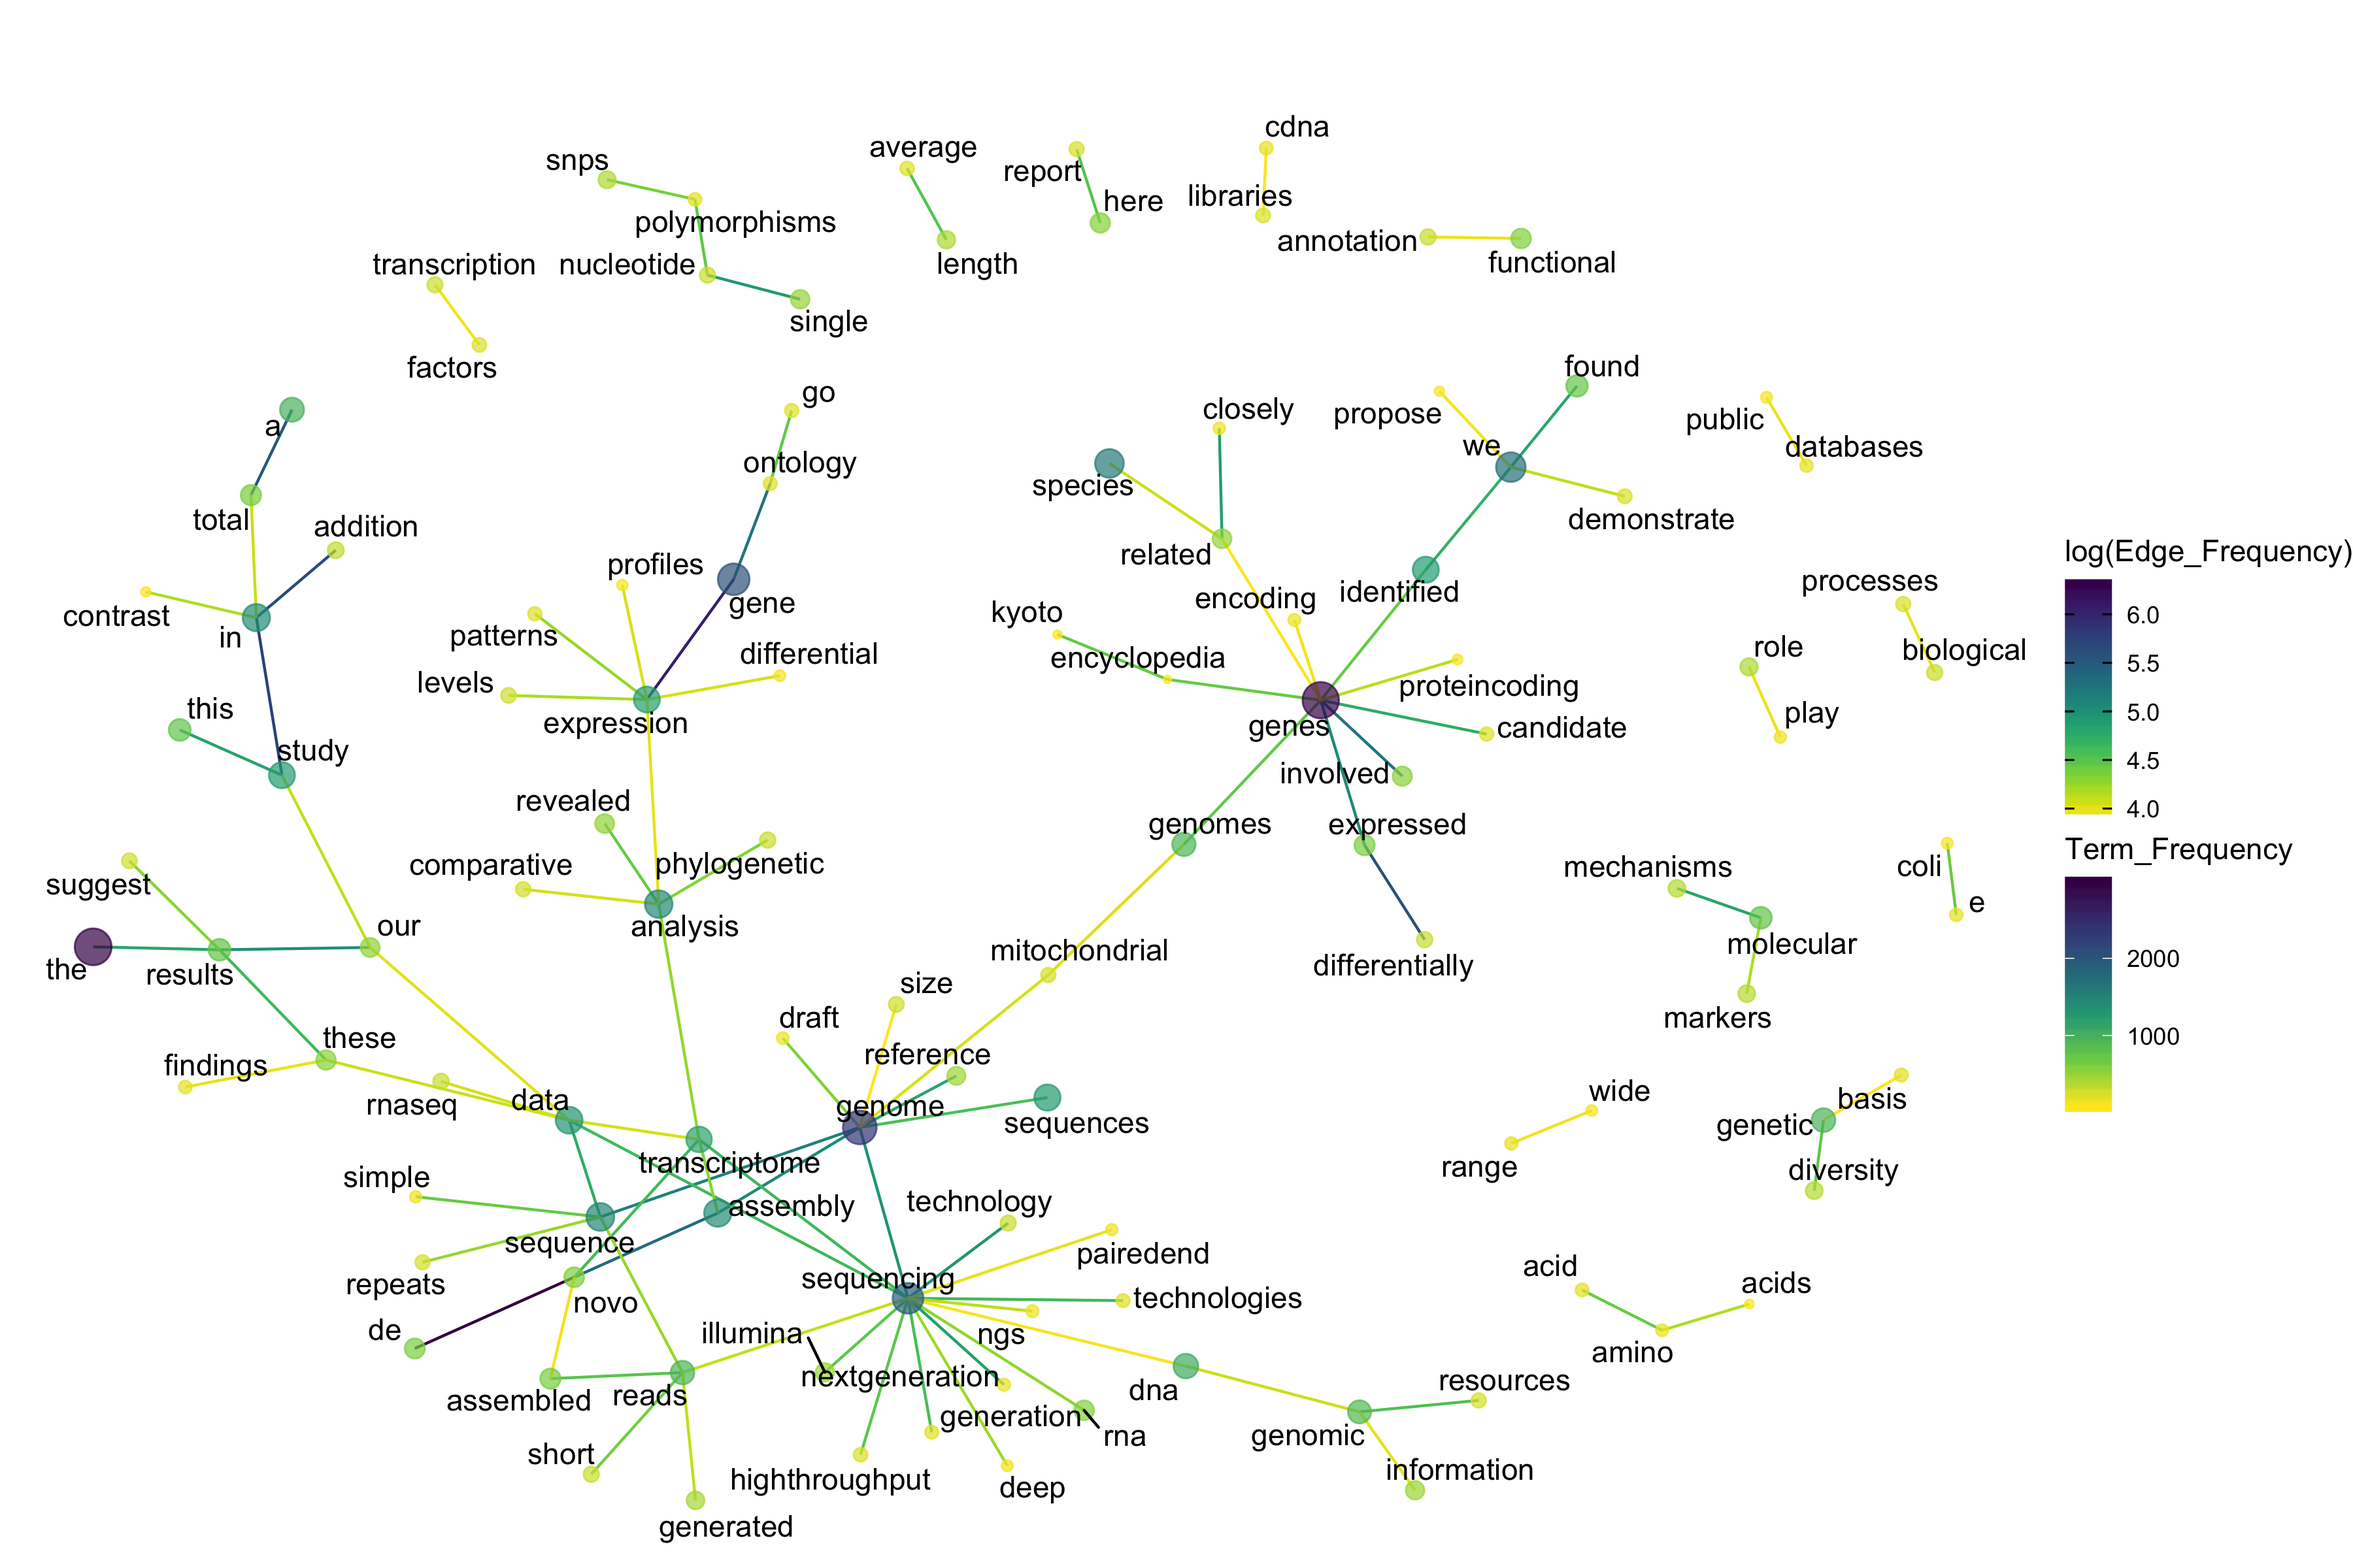
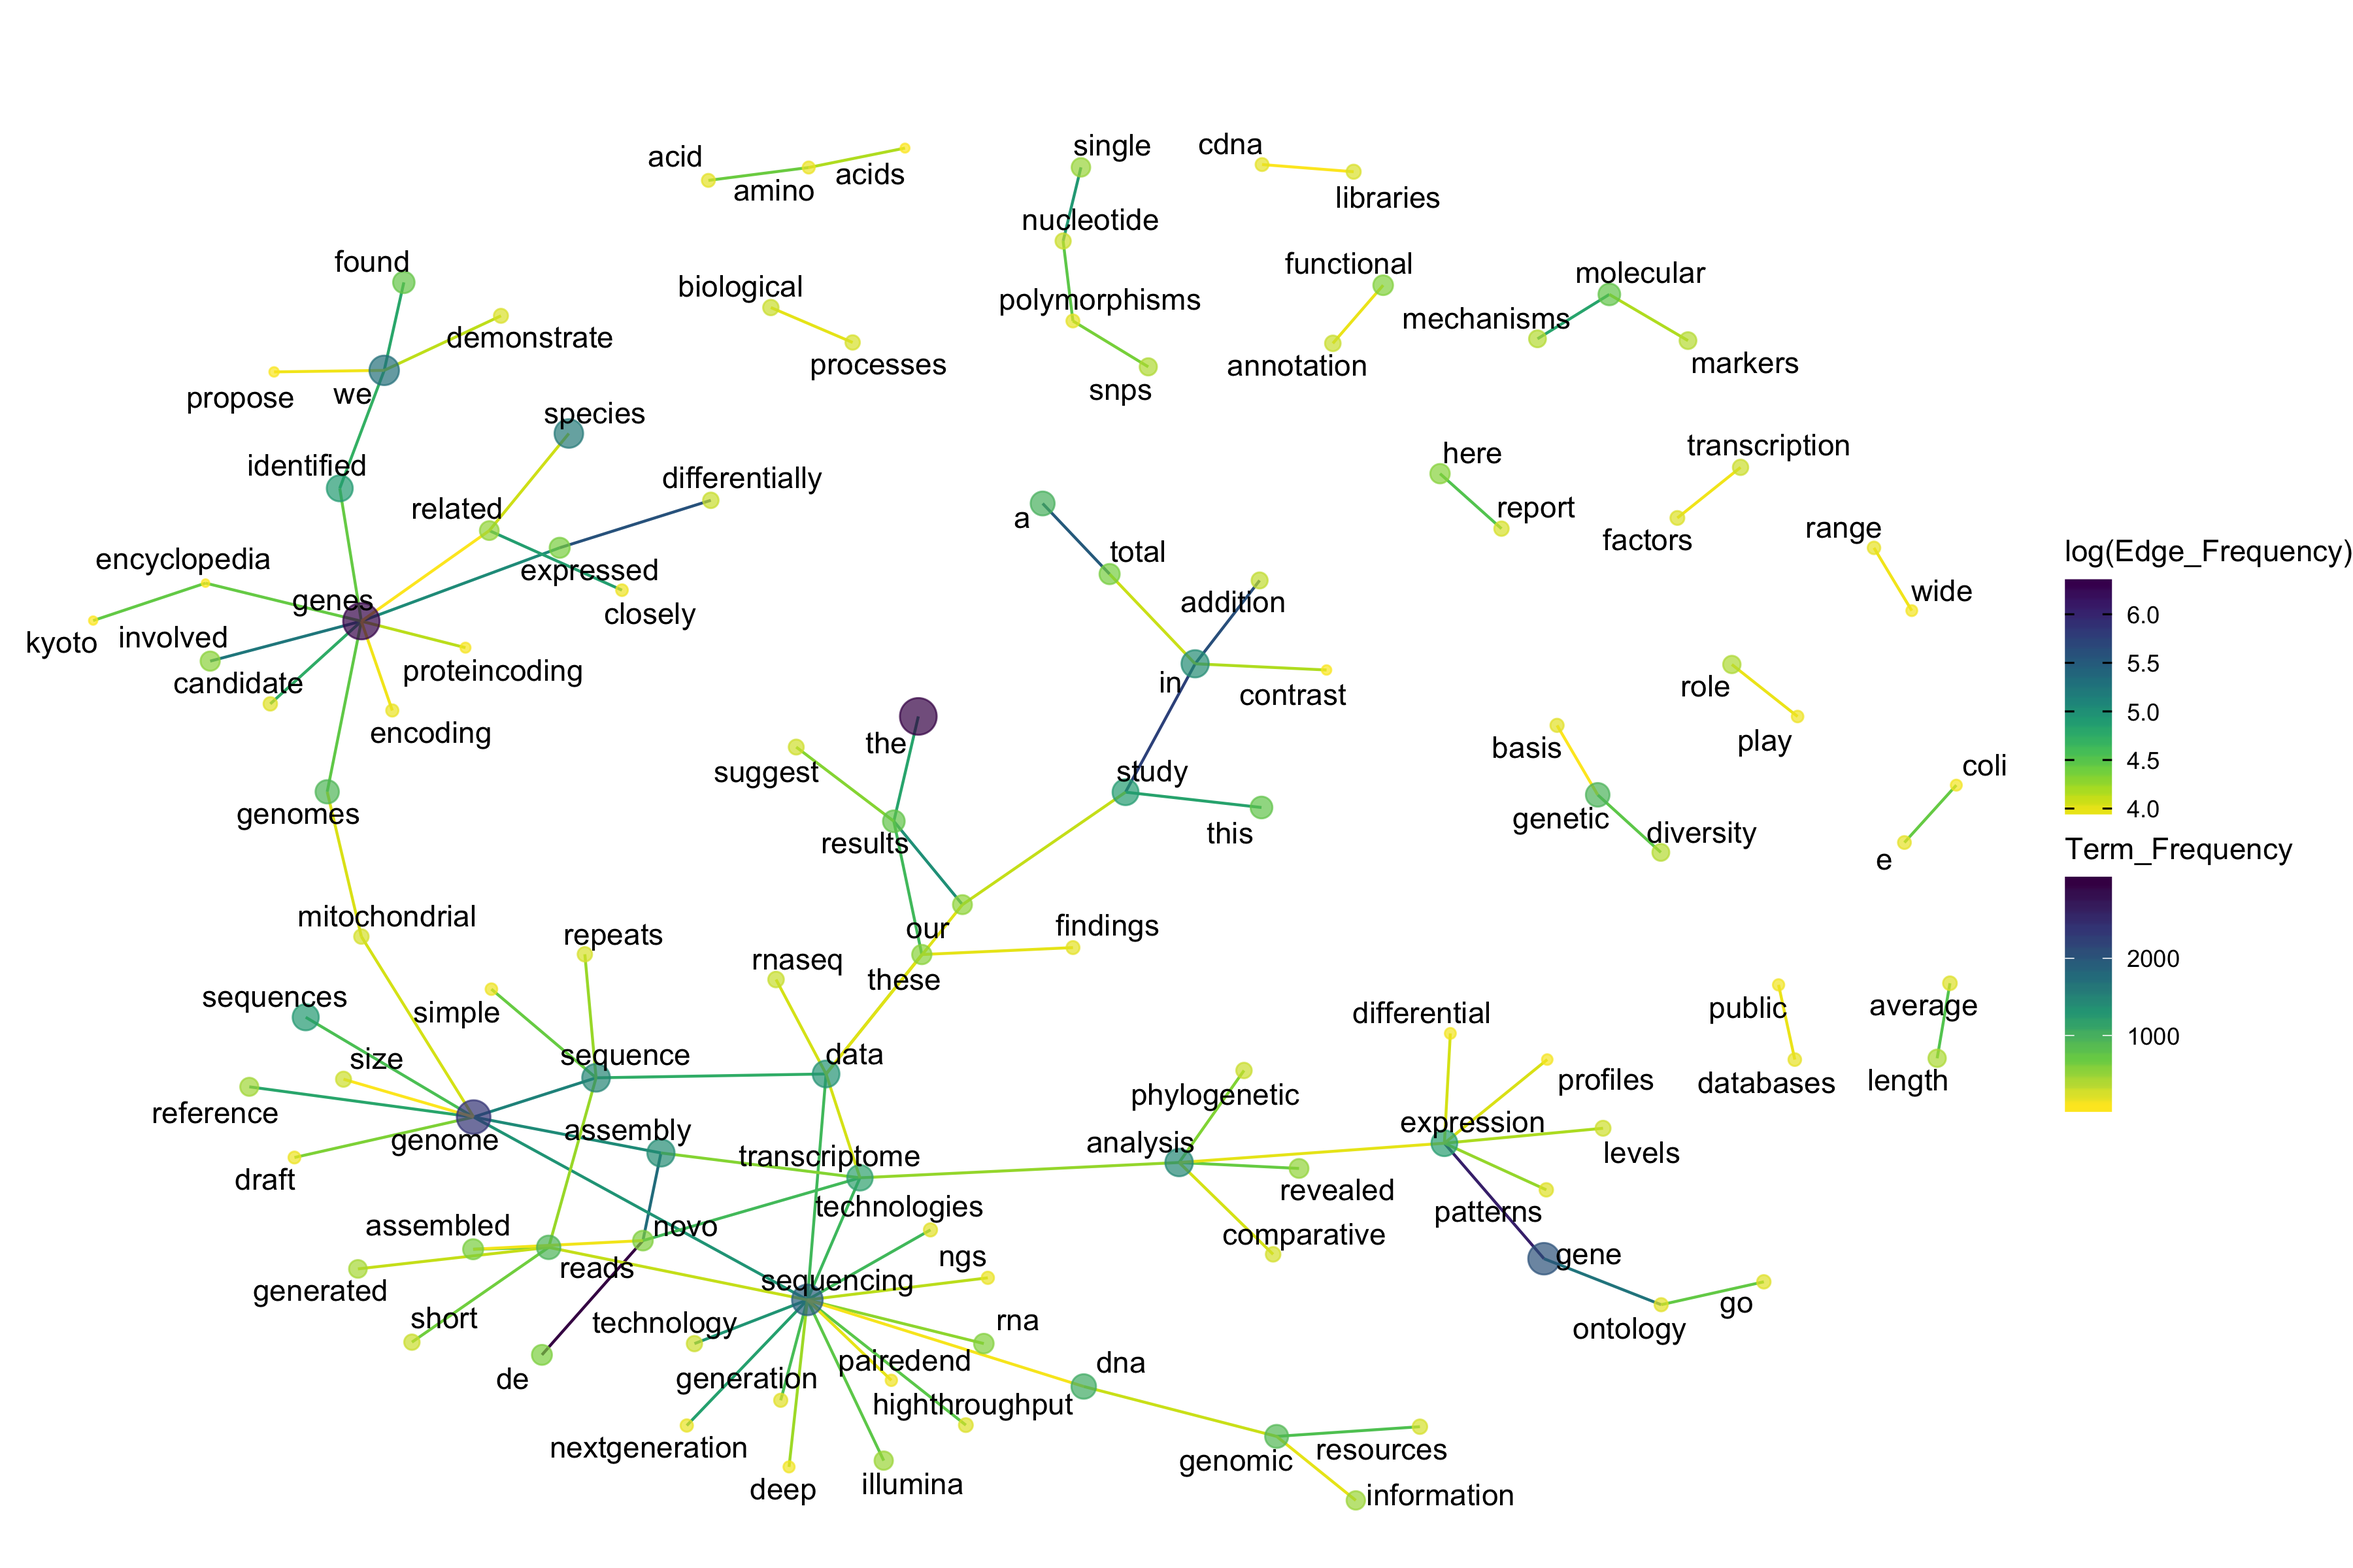
raw URLs

diff --git a/workshop/slides_egarlock.html b/workshop/slides_egarlock.html
@@ -3173,13 +3173,23 @@ library(broom)</pre>
 
 </article></slide><slide class=""><hgroup><h2>Mapping</h2></hgroup><article  id="mapping-4">
 
+<p>Packages needed for plotting</p>
+
+<p><code>ggplot2</code>: package for data visualizations</p>
+
+<p><code>plotly</code>: makes interactive visualizations</p>
+
+<p><code>viridis</code>: good colour palatte for dealing with colourblindness and greyscale issues</p>
+
+</article></slide><slide class=""><hgroup><h2>Mapping</h2></hgroup><article  id="mapping-5">
+
 <p>There is a lot of code in the worksheet that describes how we got the data into the format we needed</p>
 
 <p>-We will do one global plot and one of Europe</p>
 
-</article></slide><slide class=""><hgroup><h2>Mapping</h2></hgroup><article  id="mapping-5">
+</article></slide><slide class=""><hgroup><h2>Mapping</h2></hgroup><article  class="smaller" id="mapping-6">
 
-<p>Here is an example of what the data looks like</p>
+<p>Here is an example of what the data looks like:</p>
 
 <table class = 'rmdtable'>
 <tr class="header">
@@ -3294,7 +3304,7 @@ library(broom)</pre>
 </tr>
 </table>
 
-</article></slide><slide class=""><hgroup><h2>Mapping</h2></hgroup><article  id="mapping-6">
+</article></slide><slide class=""><hgroup><h2>Mapping</h2></hgroup><article  id="mapping-7">
 
 <pre class = 'prettyprint lang-r'>pl &lt;- ggplot() +
 <b>  geom_polygon(data = world_data2, aes(x = long, y = lat,
@@ -3305,7 +3315,7 @@ library(broom)</pre>
 
 world_plotly=ggplotly(pl,tooltip = &quot;text&quot;)</pre>
 
-</article></slide><slide class=""><hgroup><h2>Mapping</h2></hgroup><article  id="mapping-7">
+</article></slide><slide class=""><hgroup><h2>Mapping</h2></hgroup><article  id="mapping-8">
 
 <pre class = 'prettyprint lang-r'>pl &lt;- ggplot() +
   geom_polygon(data = world_data2, aes(x = long, y = lat,
@@ -3316,11 +3326,11 @@ world_plotly=ggplotly(pl,tooltip = &quot;text&quot;)</pre>
 </b>
 world_plotly=ggplotly(pl,tooltip = &quot;text&quot;)</pre>
 
-</article></slide><slide class=""><hgroup><h2>Mapping</h2></hgroup><article  id="mapping-8">
+</article></slide><slide class=""><hgroup><h2>Mapping</h2></hgroup><article  id="mapping-9">
 
 <p><img src="https://dy-lin.github.io/hs19-trends/workshop/world_map_example.png" width="700px" style="display: block; margin: auto;" /></p>
 
-</article></slide><slide class=""><hgroup><h2>Mapping</h2></hgroup><article  id="mapping-9">
+</article></slide><slide class=""><hgroup><h2>Mapping</h2></hgroup><article  id="mapping-10">
 
 <p>If we want to look at certain countries we can do that too</p>
 
@@ -3330,29 +3340,115 @@ world_plotly=ggplotly(pl,tooltip = &quot;text&quot;)</pre>
 <li>plot will be set up similarily to the global one but we will add in new elements</li>
 </ul>
 
-</article></slide><slide class=""><hgroup><h2>Mapping</h2></hgroup><article  id="mapping-10">
+</article></slide><slide class=""><hgroup><h2>Mapping</h2></hgroup><article  class="smaller" id="mapping-11">
+
+<table class = 'rmdtable'>
+<tr class="header">
+<th align="left"></th>
+<th align="right">X</th>
+<th align="left">region</th>
+<th align="right">Count</th>
+<th align="right">long</th>
+<th align="right">lat</th>
+<th align="right">group</th>
+<th align="right">order</th>
+<th align="left">subregion</th>
+</tr>
+<tr class="odd">
+<td align="left">67</td>
+<td align="right">67</td>
+<td align="left">Albania</td>
+<td align="right">0</td>
+<td align="right">19.96484</td>
+<td align="right">39.87227</td>
+<td align="right">6</td>
+<td align="right">836</td>
+<td align="left">NA</td>
+</tr>
+<tr class="even">
+<td align="left">68</td>
+<td align="right">68</td>
+<td align="left">Albania</td>
+<td align="right">0</td>
+<td align="right">19.85186</td>
+<td align="right">40.04356</td>
+<td align="right">6</td>
+<td align="right">837</td>
+<td align="left">NA</td>
+</tr>
+<tr class="odd">
+<td align="left">69</td>
+<td align="right">69</td>
+<td align="left">Albania</td>
+<td align="right">0</td>
+<td align="right">19.48457</td>
+<td align="right">40.20996</td>
+<td align="right">6</td>
+<td align="right">838</td>
+<td align="left">NA</td>
+</tr>
+<tr class="even">
+<td align="left">70</td>
+<td align="right">70</td>
+<td align="left">Albania</td>
+<td align="right">0</td>
+<td align="right">19.39814</td>
+<td align="right">40.28486</td>
+<td align="right">6</td>
+<td align="right">839</td>
+<td align="left">NA</td>
+</tr>
+<tr class="odd">
+<td align="left">71</td>
+<td align="right">71</td>
+<td align="left">Albania</td>
+<td align="right">0</td>
+<td align="right">19.36016</td>
+<td align="right">40.34771</td>
+<td align="right">6</td>
+<td align="right">840</td>
+<td align="left">NA</td>
+</tr>
+<tr class="even">
+<td align="left">72</td>
+<td align="right">72</td>
+<td align="left">Albania</td>
+<td align="right">0</td>
+<td align="right">19.32227</td>
+<td align="right">40.40708</td>
+<td align="right">6</td>
+<td align="right">841</td>
+<td align="left">NA</td>
+</tr>
+</table>
+
+</article></slide><slide class=""><hgroup><h2>Mapping</h2></hgroup><article  id="mapping-12">
 
 <pre class = 'prettyprint lang-r'><b> pl &lt;- ggplot() + 
   geom_polygon(data = europe_data, aes(x = long, y = lat, 
-  group = group, fill = log(Count),text=paste(region,Count, sep=&quot;;&quot;))) +
-</b>  geom_point(data=points_europe,aes(x=X,y=Y,text=str_wrap(affiliation,50)),
+  group = group, fill = log(Count),
+  text=paste(region,Count, sep=&quot;;&quot;))) +
+</b>  geom_point(data=points_europe,aes(x=X,y=Y,
+  text=str_wrap(affiliation,50)),
   alpha=0.5,size=0.5,colour=&quot;grey&quot;)+
   coord_fixed(1.3)+
   scale_fill_viridis()+
   theme_void()</pre>
 
-</article></slide><slide class=""><hgroup><h2>Mapping</h2></hgroup><article  id="mapping-11">
+</article></slide><slide class=""><hgroup><h2>Mapping</h2></hgroup><article  id="mapping-13">
 
 <pre class = 'prettyprint lang-r'> pl &lt;- ggplot() + 
   geom_polygon(data = europe_data, aes(x = long, y = lat, 
-  group = group, fill = log(Count),text=paste(region,Count, sep=&quot;;&quot;))) +
-<b>  geom_point(data=points_europe,aes(x=X,y=Y,text=str_wrap(affiliation,50)),
+  group = group, fill = log(Count),
+  text=paste(region,Count, sep=&quot;;&quot;))) +
+<b>  geom_point(data=points_europe,aes(x=X,y=Y,
+  text=str_wrap(affiliation,50)),
   alpha=0.5,size=0.5,colour=&quot;grey&quot;)+
 </b>  coord_fixed(1.3)+
   scale_fill_viridis()+
   theme_void()</pre>
 
-</article></slide><slide class=""><hgroup><h2>Mapping</h2></hgroup><article  id="mapping-12">
+</article></slide><slide class=""><hgroup><h2>Mapping</h2></hgroup><article  id="mapping-14">
 
 <p><img src="https://dy-lin.github.io/hs19-trends/workshop/europe_map_example.png" width="700px" style="display: block; margin: auto;" /></p>
 
@@ -3369,6 +3465,24 @@ world_plotly=ggplotly(pl,tooltip = &quot;text&quot;)</pre>
 
 </article></slide><slide class=""><hgroup><h2>Bigrams</h2></hgroup><article  id="bigrams-2">
 
+<pre class = 'prettyprint lang-r'>library(tidyverse)
+library(tidytext)
+library(tm)
+library(widyr)
+library(igraph)
+library(ggplot2)
+library(ggraph)
+library(readr)
+library(tidygraph)</pre>
+
+</article></slide><slide class=""><hgroup><h2>Bigrams</h2></hgroup><article  id="bigrams-3">
+
+<p><code>ggraph</code>: visualizations for network structures</p>
+
+<p><code>ggplot2</code>: package for data visualizations</p>
+
+</article></slide><slide class=""><hgroup><h2>Bigrams</h2></hgroup><article  id="bigrams-4">
+
 <p><strong>visualize_bigrams</strong>: extracts bigrams from a text field, calculates frequency of bigrams, and creates a bigram plot to visualize relationships between words</p>
 
 <ul>
@@ -3378,16 +3492,18 @@ world_plotly=ggplotly(pl,tooltip = &quot;text&quot;)</pre>
 
 <pre class = 'prettyprint lang-r'>visualize_bigrams &lt;- function(df_name, textfield, topic_title)</pre>
 
-</article></slide><slide class=""><hgroup><h2>Bigrams</h2></hgroup><article  id="bigrams-3">
+</article></slide><slide class=""><hgroup><h2>Bigrams</h2></hgroup><article  id="bigrams-5">
 
 <p>In the worksheet, you will see a lot of code that just talks about the formatting of the data. If you are interested in that look into it, but we’re just covering the plotting</p>
 
-</article></slide><slide class=""><hgroup><h2>Bigrams</h2></hgroup><article  id="bigrams-4">
+</article></slide><slide class=""><hgroup><h2>Bigrams</h2></hgroup><article  id="bigrams-6">
 
 <pre class = 'prettyprint lang-r'>pl &lt;- graph_hold %&gt;%
       ggraph(layout = &quot;fr&quot;) +
-      geom_edge_link(aes(edge_alpha = Edge_Frequency), show.legend = TRUE) +
-      geom_node_point(aes(color = Term_Frequency, size = Term_Frequency), alpha = 0.7) +
+      geom_edge_link(aes(edge_alpha = Edge_Frequency), 
+      show.legend = TRUE) +
+      geom_node_point(aes(color = Term_Frequency, 
+      size = Term_Frequency), alpha = 0.7) +
       scale_fill_viridis_c() +
       geom_node_text(aes(label = name), repel = TRUE) +
       scale_color_viridis_c(direction = -1) +
@@ -3396,7 +3512,7 @@ world_plotly=ggplotly(pl,tooltip = &quot;text&quot;)</pre>
       labs(title = quo_name(topic_title)) +
       theme(plot.title = element_text(size = 26, face = &quot;bold&quot;))</pre>
 
-</article></slide><slide class=""><hgroup><h2>Bigrams</h2></hgroup><article  class="vcenter flexbox" id="bigrams-5">
+</article></slide><slide class=""><hgroup><h2>Bigrams</h2></hgroup><article  class="vcenter flexbox" id="bigrams-7">
 
 <pre >## 
 ## 
@@ -3413,7 +3529,13 @@ world_plotly=ggplotly(pl,tooltip = &quot;text&quot;)</pre>
 ## |Structural Prediction |
 ## |Variant Calling       |</pre>
 
-</article></slide><slide class=""><hgroup><h2>Bigrams</h2></hgroup><article  id="bigrams-6">
+</article></slide><slide class=""><hgroup><h2>Bigrams</h2></hgroup><article  id="bigrams-8">
+
+<pre class = 'prettyprint lang-r'>df_assembly &lt;- df %&gt;% 
+  filter(topic == &quot;Assembly&quot;)
+visualize_bigrams(df_assembly, abstract, &quot;&quot;)</pre>
+
+</article></slide><slide class=""><hgroup><h2>Bigrams</h2></hgroup><article  id="bigrams-9">
 
 <p><img src="https://dy-lin.github.io/hs19-trends/figures/bigrams_assembly.png" width="800px" /></p></article></slide>
 
